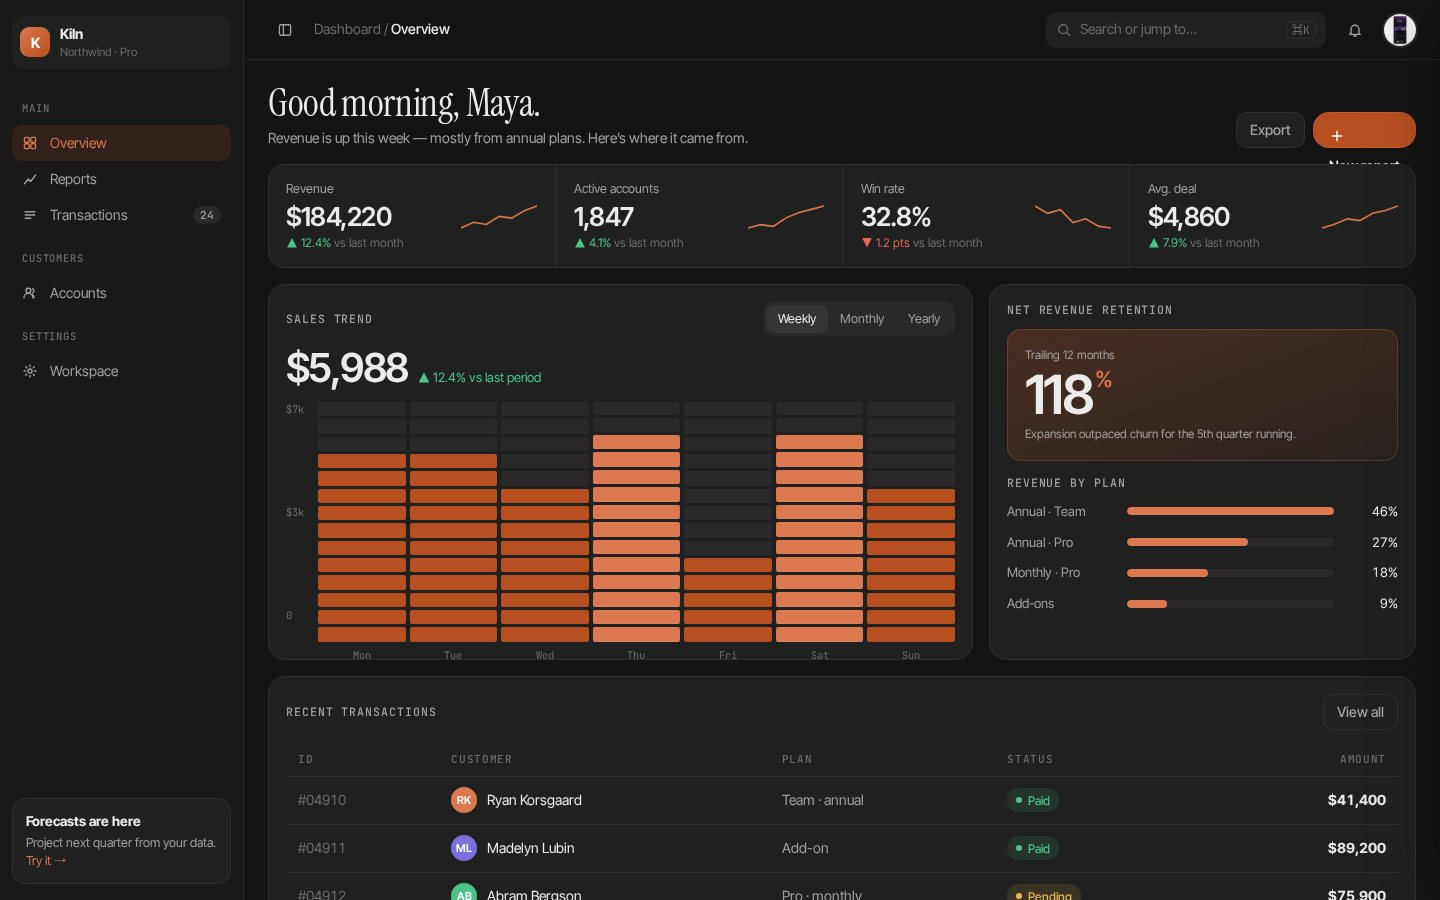
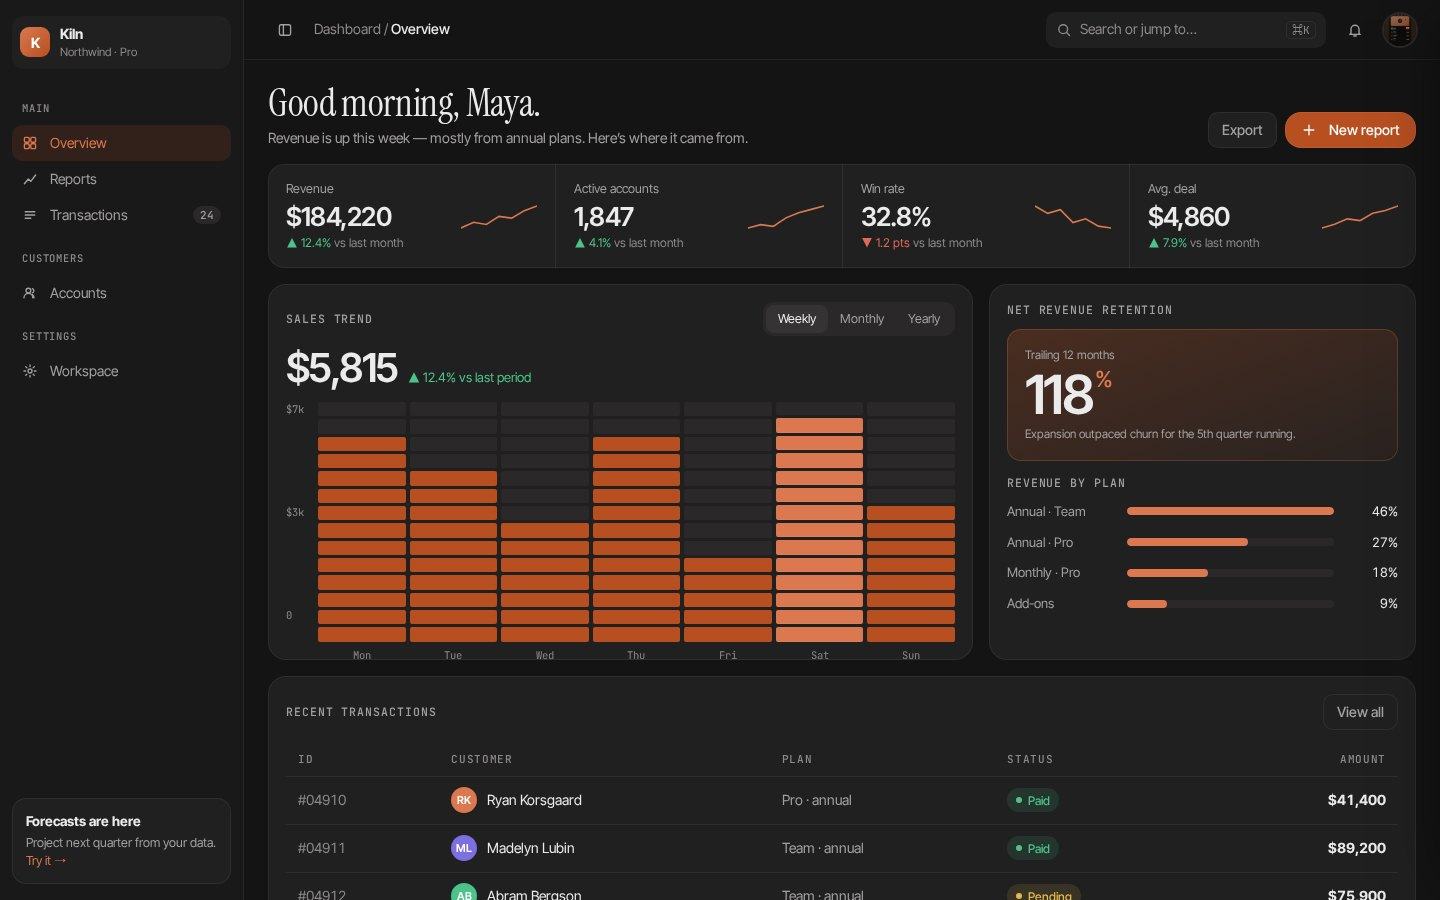
Demos: Kiln button/overflow fixes, mobile sidebar overlay, drawer visible on phones, plans match deal size, fresh cover; demo/ index redirects to in-app Demos

diff --git a/demo/dashboard/index.html b/demo/dashboard/index.html
@@ -54,17 +54,17 @@ main{overflow-y:auto;height:100dvh}
 .search{margin-left:auto;display:flex;align-items:center;gap:8px;height:36px;width:280px;padding:0 10px;border-radius:10px;background:var(--s1);color:var(--t3)}
 .search kbd{margin-left:auto;font:11px var(--mono);border:1px solid var(--line);border-radius:5px;padding:1px 5px}
 .av{width:32px;height:32px;border-radius:50%;background:url(../../assets/thumb/ORG-0197.webp) center/cover;box-shadow:0 0 0 2px var(--s2)}
-.wrap{padding:24px;display:grid;gap:16px;max-width:1440px}
+.wrap{padding:24px;display:grid;grid-template-columns:minmax(0,1fr);gap:16px;max-width:1440px}
 .hd{display:flex;align-items:flex-end;justify-content:space-between;gap:16px;flex-wrap:wrap}
 .hd h1{margin:0;font:400 38px/1 var(--serif);letter-spacing:-.01em}
 .hd p{margin:6px 0 0;color:var(--t2)}
 .btn{display:inline-flex;align-items:center;justify-content:center;white-space:nowrap;gap:8px;height:36px;padding:0 14px;border-radius:10px;font-weight:500;transition:transform .3s var(--spring),filter .2s}
 .btn:active{transform:scale(.96)}
-.btn.acc{background:var(--acc);color:#fff}.btn.acc:hover{filter:brightness(1.1)}
+.btn.acc{display:inline-flex;background:var(--acc);color:#fff}.btn.acc:hover{filter:brightness(1.1)}
 .btn.gh{background:var(--s1);box-shadow:inset 0 0 0 1px var(--line);color:var(--t2)}
 
 .kpis{display:grid;grid-template-columns:repeat(4,1fr);border-radius:16px;background:var(--s1);box-shadow:inset 0 0 0 1px var(--line)}
-.kpi{padding:16px 18px;display:grid;grid-template-columns:1fr auto;gap:4px 10px;align-items:end}
+.kpi{padding:16px 18px;display:grid;grid-template-columns:minmax(0,1fr) auto;gap:4px 10px;align-items:end}
 .kpi+.kpi{border-left:1px solid var(--line)}
 .kpi small{grid-column:1/-1;color:var(--t2);font-size:12.5px}
 .kpi b{font:600 26px/1 var(--sans);letter-spacing:-.03em}
@@ -123,8 +123,8 @@ td.r,th.r{text-align:right}
 .credit a{color:var(--acc-t);text-decoration:none}
 .credit .refs{display:flex;gap:8px;align-items:center}
 .credit img{width:34px;height:34px;border-radius:8px;object-fit:cover}
-@media(max-width:1100px){.grid{grid-template-columns:1fr}.kpis{grid-template-columns:1fr 1fr}.kpi:nth-child(3){border-left:0;border-top:1px solid var(--line)}.kpi:nth-child(4){border-top:1px solid var(--line)}}
-@media(max-width:760px){aside{display:none}body{grid-template-columns:1fr}.search{display:none}.tablewrap{overflow-x:auto}}
+@media(max-width:1100px){.grid{grid-template-columns:minmax(0,1fr)}.kpis{grid-template-columns:repeat(2,minmax(0,1fr))}.kpi:nth-child(3){border-left:0;border-top:1px solid var(--line)}.kpi:nth-child(4){border-top:1px solid var(--line)}}
+@media(max-width:760px){aside:not(.drawer){position:fixed;z-index:40;top:0;bottom:0;left:0;width:264px;transform:translateX(-105%);transition:transform .45s var(--ease);box-shadow:30px 0 60px -20px rgba(0,0,0,.6)}body.mini aside:not(.drawer){width:264px}body.navon aside:not(.drawer){transform:none}body.navon::after{content:'';position:fixed;inset:0;z-index:39;background:rgba(0,0,0,.5)}body{grid-template-columns:minmax(0,1fr)}main{min-width:0}.btn{white-space:nowrap}.search{display:none}.tablewrap{overflow-x:auto}.wrap{padding:16px}.kpi{padding:14px}.kpi svg{width:52px}.hd h1{font-size:32px}}@media(max-width:430px){.kpi b{font-size:22px}.kpi svg{width:40px}.kpi{gap:4px 6px}}
 @media(prefers-reduced-motion:reduce){*{transition-duration:1ms!important}}
 
 /* --- app additions --- */
@@ -220,7 +220,9 @@ const C=['#DB7850','#7C6FE0','#4CC38A','#E5B94E','#4AA3DF','#E5675C'];
 const ST=[['Paid','ok'],['Pending','warn'],['Refunded','bad']];
 const NAMES=['Ryan Korsgaard','Madelyn Lubin','Abram Bergson','Phillip Mango','Ana Ruiz','Kenji Watanabe','Lea Martin','Omar Haddad','Priya Nair','Tomás Silva','Ines Moreau','Jonah Park','Sara Lind','Wei Chen','Elif Kaya','Noah Brooks','Maya Lin','Luca Romano','Hana Sato','Diego Ortiz','Zoe Adams','Amir Rahimi','Freya Olsen','Kofi Mensah'];
 const PLANS=['Team · annual','Pro · annual','Pro · monthly','Add-on'];
-let TX=NAMES.map((n,i)=>({id:'#0'+(4910+i),who:n,plan:PLANS[(i*7)%4],st:i%9===3?2:i%5===2?1:0,seats:[12,20,22,4,8,40,3,1,6,15,9,2,30,5,11,7,18,3,25,4,10,6,14,2][i],amt:[41400,89200,75900,19500,18240,152000,1740,480,22300,61000,9800,1200,118000,7400,33100,12600,64800,2100,97500,5300,28900,8700,47200,960][i],date:`Oct ${20-Math.floor(i/2)}`}));
+let TX=NAMES.map((n,i)=>({id:'#0'+(4910+i),who:n,plan:null,st:i%9===3?2:i%5===2?1:0,seats:[12,20,22,4,8,40,3,1,6,15,9,2,30,5,11,7,18,3,25,4,10,6,14,2][i],amt:[41400,89200,75900,19500,18240,152000,1740,480,22300,61000,9800,1200,118000,7400,33100,12600,64800,2100,97500,5300,28900,8700,47200,960][i],date:`Oct ${20-Math.floor(i/2)}`}));
+// plan follows the size of the deal, so the drawer never shows a $150k add-on
+TX.forEach(t=>{t.plan=PLANS[t.amt>=50000?0:t.amt>=15000?1:t.amt>=2000?2:3]});
 const ACCTS=['Northwind','Parallax','Orbit AI','Fieldwork','Lumen','Meridian','Acme Labs','Halcyon','Brightline'].map((n,i)=>({n,plan:i%3?'Pro':'Team',seats:[40,22,12,8,30,15,6,10,18][i],mrr:[12400,6100,4800,2200,9300,3900,1600,2800,5200][i],health:[92,78,64,88,95,71,55,83,90][i],c:C[i%6]}));
 let page='overview';
 
@@ -295,7 +297,7 @@ settings(){const T={General:`<section class="card" style="max-width:640px;displa
  const show=t=>{$$('.tabs button').forEach(b=>b.setAttribute('aria-selected',b.dataset.tab===t));$('#tabp').innerHTML=`<div class="page">${T[t]}</div>`};$('.tabs').onclick=e=>{const b=e.target.closest('[data-tab]');if(b)show(b.dataset.tab)};show('General')},
 };
 
-function go(p){page=p;$('#page').innerHTML=`<div class="page" style="display:grid;gap:16px">${PAGES[p]()}</div>`;INIT[p]?.();$$('aside .nav a').forEach(a=>a.toggleAttribute('aria-current',a.dataset.page===p));$('#crumb').textContent=p[0].toUpperCase()+p.slice(1);history.replaceState(null,'','#'+p);$('main').scrollTop=0}
+function go(p){page=p;$('#page').innerHTML=`<div class="page" style="display:grid;grid-template-columns:minmax(0,1fr);gap:16px">${PAGES[p]()}</div>`;INIT[p]?.();$$('aside .nav a').forEach(a=>a.toggleAttribute('aria-current',a.dataset.page===p));$('#crumb').textContent=p[0].toUpperCase()+p.slice(1);history.replaceState(null,'','#'+p);$('main').scrollTop=0}
 document.addEventListener('click',e=>{
  const a=e.target.closest('[data-page],[data-go]');if(a){e.preventDefault();go(a.dataset.page||a.dataset.go);return}
  const tx=e.target.closest('[data-tx]');if(tx){const r=TX.find(x=>x.id===tx.dataset.tx);const i=TX.indexOf(r);
@@ -314,7 +316,9 @@ $('#openK').onclick=kopen;$('#kq').oninput=()=>{ksel=0;kdraw()};
 $('#kres').onclick=e=>{const b=e.target.closest('[data-k]');if(b){closeAll();CMDS[+b.dataset.k][1]()}};
 addEventListener('keydown',e=>{if((e.metaKey||e.ctrlKey)&&e.key.toLowerCase()==='k'){e.preventDefault();kopen()}if(e.key==='Escape')closeAll();
  if($('#cmdk').classList.contains('on')){const list=kdraw();if(e.key==='ArrowDown'){ksel=(ksel+1)%list.length;kdraw();e.preventDefault()}if(e.key==='ArrowUp'){ksel=(ksel-1+list.length)%list.length;kdraw();e.preventDefault()}if(e.key==='Enter'&&list[ksel]){closeAll();list[ksel][1]()}}});
-$('#mini').onclick=()=>document.body.classList.toggle('mini');
+const phone=matchMedia('(max-width:760px)');
+$('#mini').onclick=()=>document.body.classList.toggle(phone.matches?'navon':'mini');
+document.addEventListener('click',e=>{if(document.body.classList.contains('navon')&&(e.target.closest('aside .nav a')||!e.target.closest('aside,#mini')))document.body.classList.remove('navon')},true);
 $('#bell').onclick=()=>drawer(`<header><b>Notifications</b>${X}</header><div class="body"><div class="tl"><div>Orbit AI upgraded to Team<small>2 min ago</small></div><div>Refund requested by Lea Martin<small>1 h ago</small></div><div>Weekly digest is ready<small>Yesterday</small></div></div></div>`);
 go(['overview','reports','transactions','accounts','settings'].includes(location.hash.slice(1))?location.hash.slice(1):'overview');
 </script>

diff --git a/demo/index.html b/demo/index.html
@@ -1,62 +1,7 @@
-<!doctype html>
-<html lang="en" data-theme="dark">
-<head>
-<meta charset="utf-8">
+<!DOCTYPE html>
+<html lang="en"><head><meta charset="utf-8"><title>Built with the skill · UI Hall</title>
 <meta name="viewport" content="width=device-width, initial-scale=1">
-<title>Built with the skill · UI Hall</title>
-<meta name="description" content="Working prototypes built by following the UI Hall skill end to end — each linking related originals in the hall.">
-<link rel="icon" href="../favicon.svg" type="image/svg+xml">
-<link rel="stylesheet" href="../assets/css/fonts-v2.css">
-<link rel="stylesheet" href="../assets/css/site.css">
-<style>
-.demos{display:grid;gap:18px}
-.demo{display:grid;grid-template-columns:minmax(0,1.1fr) minmax(0,1fr);gap:0;border-radius:var(--r-xl);overflow:hidden;background:var(--surface);box-shadow:inset 0 0 0 1px var(--line);text-decoration:none;transition:transform .6s var(--spring),box-shadow .3s}
-.demo:hover{transform:translateY(-4px);box-shadow:inset 0 0 0 1px var(--line-2),0 40px 80px -40px rgba(0,0,0,.6)}
-.demo__img{position:relative;background:var(--img-bg);min-height:380px;overflow:hidden;display:grid;place-items:center}
-.demo__img img{max-height:420px;width:auto;max-width:92%;border-radius:18px;box-shadow:0 30px 60px -20px rgba(0,0,0,.6);transition:transform 1.1s var(--ease-out)}
-.demo:hover .demo__img img{transform:scale(1.03) translateY(-6px)}
-.demo__body{padding:34px;display:grid;gap:16px;align-content:center}
-.demo__body h2{font:400 46px/1 var(--font-display);letter-spacing:-.02em}
-.demo__body h2 em{color:var(--accent)}
-.demo__body p{color:var(--text-2)}
-.demo__refs{display:flex;gap:8px;align-items:center}
-.demo__refs img{width:46px;height:46px;border-radius:10px;object-fit:cover;box-shadow:0 0 0 1px var(--line-2)}
-.demo__refs span{font:500 11.5px var(--font-mono);color:var(--text-3);margin-left:4px}
-@media(max-width:860px){.demo{grid-template-columns:1fr}.demo__img{min-height:300px}}
-</style>
-</head>
-<body>
-<header class="nav" style="grid-template-columns:1fr auto">
-  <a class="nav__brand" href="../"><svg class="nav__mark" viewBox="0 0 32 32" aria-hidden="true"><path d="M9 25V15a7 7 0 0 1 14 0v10" fill="none" stroke="var(--accent)" stroke-width="3.2" stroke-linecap="round"/><path d="M16 25v-7" stroke="currentColor" stroke-width="3.2" stroke-linecap="round"/></svg><span>UI&nbsp;Hall</span></a>
-  <div class="nav__tools"><a class="btn btn--sm" href="../#/agents">Get the skill</a></div>
-</header>
-<main class="container">
-  <div class="page-head">
-    <span class="eyebrow">Showcase · built with the skill</span>
-    <h1 class="display h-lg">Evidence in, <em>product out.</em></h1>
-    <p class="lede">Each prototype was made by following the uihall skill end to end: a <code>design_brief</code>, looking at the closest screens, taking their structure, using their measured palette and walking the checklist. Every one cites what it borrowed — open them and click around; they all work.</p>
-  </div>
-  <div class="demos">
-    <a class="demo" href="wallet/"><div class="demo__img"><img src="wallet/cover.jpg" alt="Halo wallet prototype"></div>
-      <div class="demo__body"><span class="eyebrow">iOS · dark · fintech</span><h2>Halo — a premium wallet, <em>one blue at a time.</em></h2>
-        <p>A complete wallet: Home, Markets, Activity and Profile tabs, coin pages with live charts, Swap with slide-to-confirm, Receive with a QR code, Send with guardrails, receipts and a currency switch that re-prices everything.</p>
-        <div class="demo__refs"><img src="../assets/thumb/ORG-0197.webp" alt=""><img src="../assets/thumb/ORG-0109.webp" alt=""><img src="../assets/thumb/ORG-0189.webp" alt=""><span>ORG-0197 · ORG-0109 · ORG-0189</span></div></div></a>
-    <a class="demo" href="pricing/"><div class="demo__img"><img src="pricing/cover.jpg" alt="Relay pricing page"></div>
-      <div class="demo__body"><span class="eyebrow">Web · light · developer tool</span><h2>Relay — a product site, <em>no surprises.</em></h2>
-        <p>A complete product site: a live replayed agent run, features, pricing with a usage recommender, searchable docs with code tabs, a changelog and a validated sign-up flow.</p>
-        <div class="demo__refs"><img src="../assets/thumb/ORG-0097.webp" alt=""><img src="../assets/thumb/ORG-0997.webp" alt=""><img src="../assets/thumb/ORG-0033.webp" alt=""><span>ORG-0097 · ORG-0997 · ORG-0033</span></div></div></a>
-    <a class="demo" href="dashboard/"><div class="demo__img"><img src="dashboard/cover.jpg" alt="Kiln analytics dashboard"></div>
-      <div class="demo__body"><span class="eyebrow">Web · dark · SaaS analytics</span><h2>Kiln — a dashboard that <em>leads with the number.</em></h2>
-        <p>Collapsible grouped sidebar, a KPI strip, a tile chart built from small squares that re-draws by range, one hero metric, revenue by plan, and a sortable, filterable transactions table with an empty state.</p>
-        <div class="demo__refs"><img src="../assets/thumb/ORG-0001.webp" alt=""><img src="../assets/thumb/ORG-0577.webp" alt=""><img src="../assets/thumb/ORG-0297.webp" alt=""><span>ORG-0001 · ORG-0577 · ORG-0297</span></div></div></a>
-    <a class="demo" href="sleep/"><div class="demo__img"><img src="sleep/cover.jpg" alt="Hush onboarding prototype"></div>
-      <div class="demo__body"><span class="eyebrow">iOS · light · wellness</span><h2>Hush — a calm sleep app, <em>from evidence.</em></h2>
-        <p>Onboarding that shapes the plan, then a working app: tonight’s routine and wind-down timer, sleep insights, a soundscape player and a journal.</p>
-        <div class="demo__refs"><img src="../assets/thumb/ORG-0125.webp" alt=""><img src="../assets/thumb/ORG-0037.webp" alt=""><img src="../assets/thumb/ORG-0061.webp" alt=""><span>ORG-0125 · ORG-0037 · ORG-0061</span></div></div></a>
-  </div>
-  <p class="faint mt-l" style="font-size:13px">Want your agent to work like this? <a href="../#/agents" style="color:var(--accent)">Install the skill and MCP server →</a></p>
-</main>
-<div class="grain" aria-hidden="true"></div>
-<script>try{const t=localStorage.getItem('uh-theme');if(t)document.documentElement.dataset.theme=t}catch{}</script>
-</body>
-</html>
+<meta http-equiv="refresh" content="0; url=../#/demos">
+<link rel="canonical" href="https://nikithamal.github.io/UiHall/#/demos">
+<style>html{background:#0A0A0B;color:#F2F1EE;font:15px system-ui}body{display:grid;place-items:center;min-height:100vh;margin:0}</style></head>
+<body><script>location.replace("../#/demos");</script><p><a href="../#/demos" style="color:#FF5A1F">The demos live in the hall →</a></p></body></html>

diff --git a/assets/js/views/home.js b/assets/js/views/home.js
@@ -37,7 +37,7 @@ export default function home(root, app) {
   root.innerHTML = `
   <header class="lp-nav" id="lpNav">
     <a class="lp-nav__brand" href="#/" aria-label="UI Hall"><svg viewBox="0 0 32 32" aria-hidden="true"><path d="M9 25V15a7 7 0 0 1 14 0v10" fill="none" stroke="var(--accent)" stroke-width="3.2" stroke-linecap="round"/><path d="M16 25v-7" stroke="currentColor" stroke-width="3.2" stroke-linecap="round"/></svg><span>UI&nbsp;Hall</span></a>
-    <nav class="lp-nav__links" aria-label="Sections"><a href="#/library">Library</a><a href="#/originals">Originals</a><a href="#/patterns">Patterns</a><a href="demo/">Demos</a><a href="#/agents">For agents</a></nav>
+    <nav class="lp-nav__links" aria-label="Sections"><a href="#/library">Library</a><a href="#/originals">Originals</a><a href="#/patterns">Patterns</a><a href="#/demos">Demos</a><a href="#/agents">For agents</a></nav>
     <div class="lp-nav__end"><button class="icon-btn" type="button" data-lp-theme aria-label="Toggle theme"><svg class="sun" viewBox="0 0 20 20"><path d="M10 3v1.5M10 15.5V17M3 10h1.5M15.5 10H17M5 5l1 1M14 14l1 1M5 15l1-1M14 6l1-1"/><circle cx="10" cy="10" r="3.2"/></svg></button><a class="btn btn--sm btn--primary" href="#/library">Open the hall ${icon.arrow}</a></div>
   </header>
 
@@ -293,7 +293,7 @@ export default function home(root, app) {
       <div class="palette-rows">${pal.map((p, i) => `<div class="palette-row" style="--c:${p.hex};--pct:${Math.max(2, p.pct)};--i:${i}"><i></i><span>${p.hex}</span><div class="bar"><span></span></div><em>${p.pct}%</em></div>`).join('')}</div>
       ${r ? `<div class="roles">${['background', 'surface', 'text', 'accent'].filter((k) => r.roles[k]).map((k) => `<div class="role" data-copy="${r.roles[k]}" style="cursor:copy"><i style="--c:${r.roles[k]}"></i><div><b>${k}</b><code>${r.roles[k]}</code></div></div>`).join('')}</div>
       <div class="row">${pill('Text', cx.text_on_background)}${pill('On accent', cx.on_accent_on_accent)}</div>` : ''}
-      <div class="anatomy__switch">${picks.map((p) => `<button type="button" aria-pressed="${p === a}" data-id="${p.id}" aria-label="${esc(p.title)}"><img src="${thumb(p)}" alt=""></button>`).join('')}</div>`;
+      <div class="anatomy__switch">${picks.map((p) => `<button type="button" aria-pressed="${p === a}" data-id="${p.id}" aria-label="${esc(p.title)}"><img src="${p.thumb}" alt=""></button>`).join('')}</div>`;
     requestAnimationFrame(() => requestAnimationFrame(() => $('.palette-bar', anat)?.classList.remove('collapsed')));
   };
   anat.addEventListener('click', (e) => { const b = e.target.closest('[data-id]'); if (b) showAsset(h.get(b.dataset.id)); });

diff --git a/assets/js/views/shared.js b/assets/js/views/shared.js
@@ -17,7 +17,7 @@ export function footer(h) {
           <p style="max-width:34ch">${t.assets} interface screens built in code, live in four themes, colour-measured. A reference for people, and a tool for the agents they work with.</p>
         </div>
         <div><h4>Explore</h4><a href="#/library">Library</a><a href="#/patterns">Patterns</a><a href="#/colour">Colour</a></div>
-        <div><h4>Agents</h4><a href="#/agents">MCP server</a><a href="#/agents?tab=skill">Agent skill</a><a href="#/agents?tab=playground">Playground</a><a href="demo/">Built with the skill</a></div>
+        <div><h4>Agents</h4><a href="#/agents">MCP server</a><a href="#/agents?tab=skill">Agent skill</a><a href="#/agents?tab=playground">Playground</a><a href="#/demos">Built with the skill</a></div>
         <div><h4>Source</h4><a href="https://github.com/NikitHamal/UiHall">GitHub</a><a href="https://github.com/NikitHamal/UiHall/tree/main/mcp">uihall-mcp</a><a href="https://github.com/NikitHamal/UiHall/tree/main/skills/uihall">Skill</a></div>
       </div>
       <div class="footer__big" aria-hidden="true">UI <em>Hall</em></div>

diff --git a/assets/js/views/agents.js b/assets/js/views/agents.js
@@ -205,7 +205,7 @@ function skillHtml() {
         ${withCopy('sk2', tint(`mkdir -p .claude/skills && curl -fsSL https://nikithamal.github.io/UiHall/skills/uihall.tar.gz | tar -xz -C .claude/skills`))}
         <p>Any agent that reads <code>SKILL.md</code> (Cursor, Codex, Copilot, Gemini CLI …): download the folder and place it where your agent loads skills or rules from.</p>
         <p>See it used end to end — brief, references, measured palette, checklist — in a working prototype:</p>
-        <div class="row"><a class="btn btn--sm btn--primary" href="demo/">${icon.ext} See the demos</a></div>
+        <div class="row"><a class="btn btn--sm btn--primary" href="#/demos">${icon.ext} See the demos</a></div>
         <div class="row"><a class="btn btn--sm" href="skills/uihall.tar.gz" download>${icon.ext} Download uihall.tar.gz</a><a class="btn btn--sm btn--ghost" href="https://github.com/NikitHamal/UiHall/tree/main/skills/uihall">View on GitHub</a></div>
       </div>
       <div class="card doc"><div class="md" id="skillMd"><p class="faint">Loading SKILL.md…</p></div></div>

diff --git a/demo/pricing/index.html b/demo/pricing/index.html
@@ -218,7 +218,7 @@ nav .links a{cursor:pointer}
       <a href="../../#/a/ORG-0997" title="ORG-0997"><img src="../../assets/thumb/ORG-0997.webp" alt="ORG-0997"></a>
       <a href="../../#/a/ORG-0033" title="ORG-0033"><img src="../../assets/thumb/ORG-0033.webp" alt="ORG-0033"></a>
       <span>· accent #AADCF7, nudged to #557A8D for text.</span></div>
-    <span><a href="../">All demos</a> · <a href="../../#/agents">Get the skill + MCP</a></span>
+    <span><a href="../../#/demos">All demos</a> · <a href="../../#/agents">Get the skill + MCP</a></span>
   </footer>
 </div>
 <div class="mscrim" id="mscrim"></div>

diff --git a/demo/sleep/index.html b/demo/sleep/index.html
@@ -139,7 +139,7 @@ textarea:focus{box-shadow:0 0 0 2px var(--accent)}
       <li>The ring is tonight’s hero; everything else supports it</li>
       <li>Empty journal teaches; timers and players keep state across tabs</li>
     </ul>
-    <div class="links"><a href="../">← All demos</a><a href="../../#/agents?tab=skill">Get the skill</a><a href="#" id="replay">Replay onboarding</a></div>
+    <div class="links"><a href="../../#/demos">← All demos</a><a href="../../#/agents?tab=skill">Get the skill</a><a href="#" id="replay">Replay onboarding</a></div>
   </aside>
 </main>
 <script type="module">

diff --git a/demo/wallet/index.html b/demo/wallet/index.html
@@ -143,7 +143,7 @@ body{background:radial-gradient(1200px 700px at 30% 20%,#101826,#05070A 60%);col
       <li>Secondary tasks in sheets; detail pages push, tabs never lose state</li>
       <li>Empty, loading and error states: search with no results, over-balance send</li>
     </ul>
-    <div class="links"><a href="../">← All demos</a><a href="../../#/agents">Get the skill + MCP</a></div>
+    <div class="links"><a href="../../#/demos">← All demos</a><a href="../../#/agents">Get the skill + MCP</a></div>
   </aside>
 </main>
 <script type="module">
